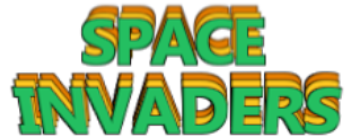
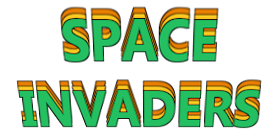
redesign graphics

diff --git a/Games/Space Invaders/README.md b/Games/Space Invaders/README.md
@@ -1,17 +1,30 @@
 Recreate the popular game _Space Invaders_, taking inspiration from the art style of the super game boy variant.
 
+## Design
+
+For the font, I decided to use [DM Mono](https://fonts.google.com/specimen/DM+Mono?sort=popularity&category=Monospace&preview.text=10+POINTS&preview.text_type=custom).
+
+For the graphics, you find in the _res_ folder a couple of images created with [GIMP](https://www.gimp.org/) to try and emulate the look and feel of the game.
+
+The following color palette is used for the title in _title.png_:
+
+- rgb(36, 191, 97)
+
+- rgb(252, 197, 34)
+
+- rgb(230, 126, 0)
+
+Consider using the same colors throughout the game.
+
+The following table works as a reference for the size of the individual quads in _shape-invaders.png_
+
+| Visual      | Width | Height |
+| ----------- | ----- | ------ |
+| Alien       | 8     | 7      |
+| Bonus Alien | 13    | 6      |
+| Player      | 9     | 7      |
+| Projectile  | 1     | 6      |
+
 ## Update 0 — title
 
 Render a screen with the title, above a basic instruction on how to proceed. Use the `timer` module from the **knife** library, to animate the scene.
-
-For the title, I created an image with GIMP and the following color palette:
-
-- #24bf61
-
-- #fcc721
-
-- #e67e00
-
-It's quite a poorly designed image, but for the current update, it will do.
-
-For the font, I decided to use [DM Mono](https://fonts.google.com/specimen/DM+Mono?sort=popularity&category=Monospace&preview.text=10+POINTS&preview.text_type=custom).
